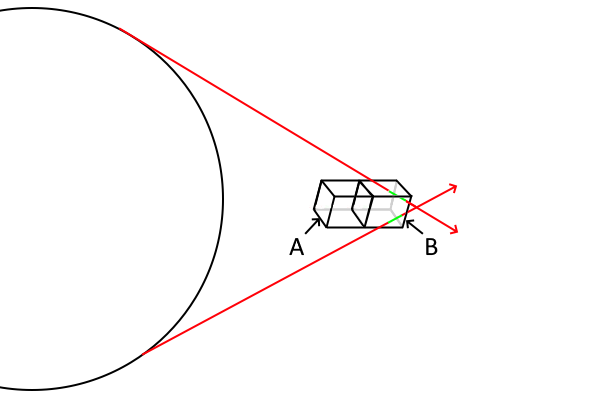
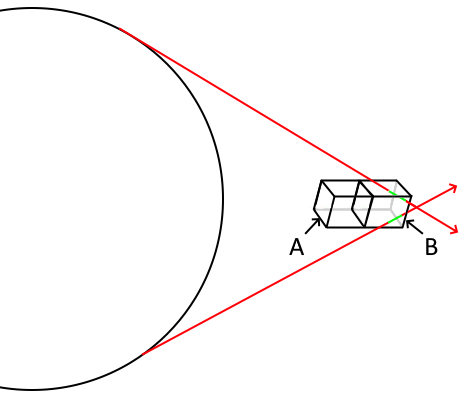
Add files via upload

diff --git a/up_close_newtonian/bezier_escape.tex b/up_close_newtonian/bezier_escape.tex
@@ -377,7 +377,7 @@ It is the gradient of the density of these line segments that forms the gravitat
 \begin{figure} 
 \centering
 \label{fig2}
-  \includegraphics[width =5 in]{AABB_repulsive.png}
+  \includegraphics[width =3 in]{AABB_repulsive.png}
   \caption{
 Axis-aligned bounding box A and box B are separated by the value epsilon $\epsilon = 2 r_{r}$.
 Box B contains more field lines than box A, resulting in repulsive gravitation.
